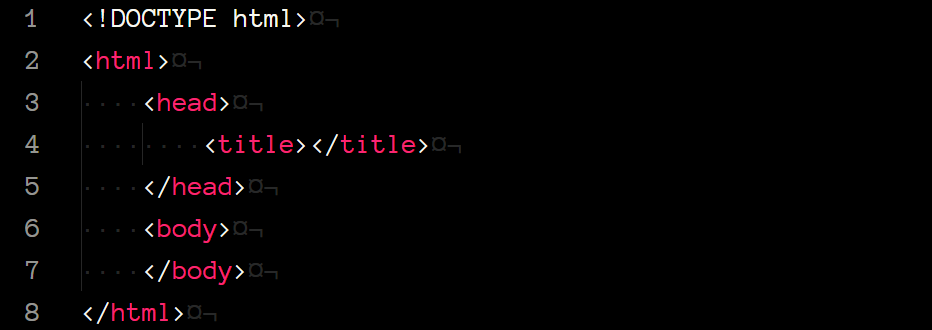
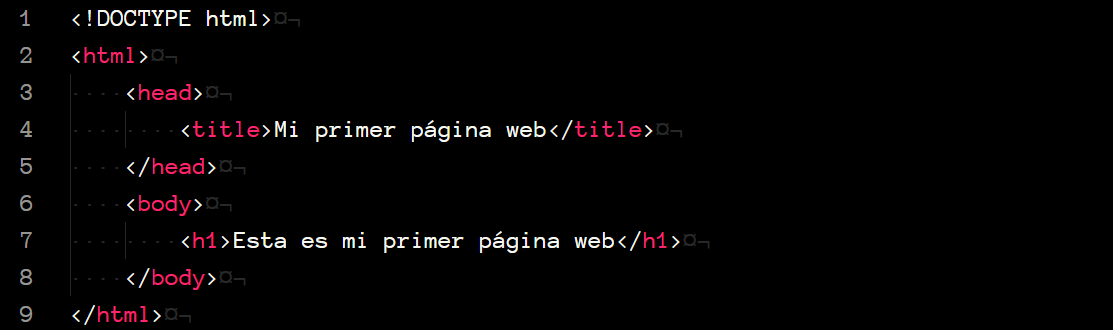
Update 03-HTML y CSS.md

diff --git a/03-HTML y CSS.md b/03-HTML y CSS.md
@@ -23,6 +23,12 @@ Para comenzar, tenemos la estructura base de nuestro documento.
 * `<title>` especifica el título de la página, el que podemos ver en la pestaña de nuestro navegador.
 * `<body>` define el cuerpo del documento, es aquí donde pondremos todo el contenido visible para el usuario.
 
+Nuestra primer página web se vería así:
+
+<p align="center">
+    <img src="./img/mi_pagina_web.png">
+</p>
+
 #### Elementos
 HTML se compone de elementos que son los que nos permiten estructurar y dar significado al documento HTML.
 
